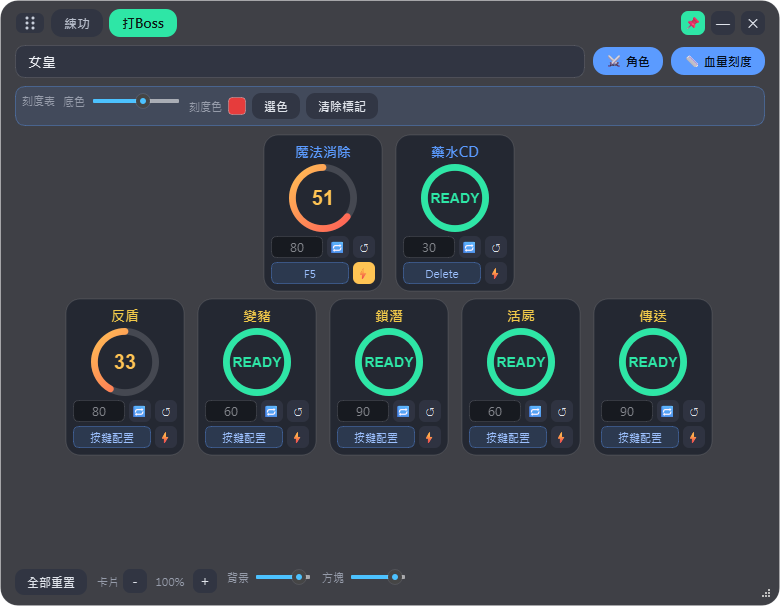
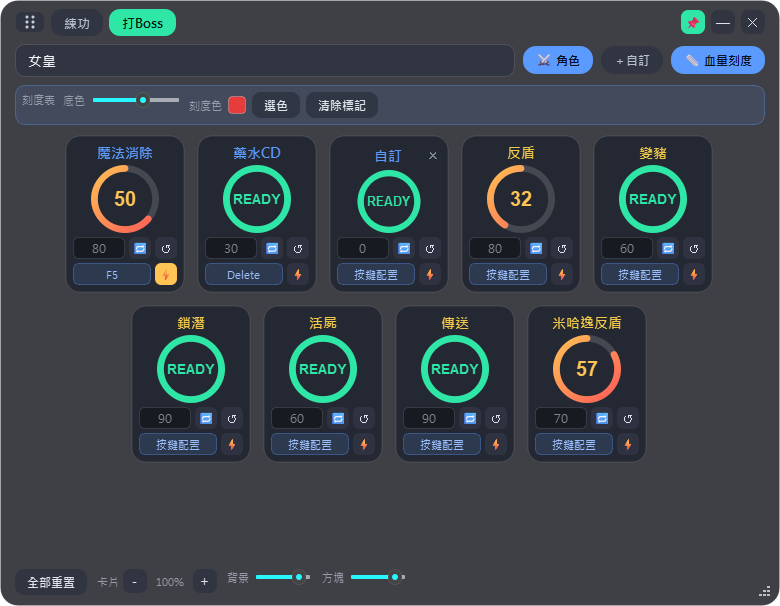
Release v1.5.0.0
新增 Boss 分類「希拉」（反頓 80 秒）；阿卡伊農新增鎖潛 90 秒；
女皇新增米哈逸反盾 70 秒。

新增「＋自訂」角色卡：可新增/刪除、直接在卡片上改名，秒數預設 0，
名稱與秒數存於 maple_star_config.json 的 custom_cards。

血量刻度表加密到每 2.5% 一格：10% 長刻度、5% 中刻度（拉高）、
2.5% 短刻度（較短較細），點擊判定隨間距縮小。

更新 README、CHANGELOG 與功能截圖。

diff --git a/maple_star_tool.py b/maple_star_tool.py
@@ -1,6 +1,6 @@
 # -*- coding: utf-8 -*-
 """
-楓星小工具 — Maplestory World 楓星 輔助小工具（PySide6）  v1.4.0.0
+楓星小工具 — Maplestory World 楓星 輔助小工具（PySide6）  v1.5.0.0
 
 主視窗工具：
   A. 技能冷卻計時器
@@ -8,8 +8,9 @@
      • 卡片縮放鈕、兩段透明度(背景/方塊)、分類頁籤、↺重置、🔁巡迴、全部重置
      • 秒數客製：留空用預設，填數字用你填的秒數
      • ⚔ 角色卡：角色技能/狀態倒數（劍士魔法消除 80 秒、藥水CD 30 秒），
-       以卡片形式插在目前分類卡片流的最前面兩格，跟 BOSS 卡一起排列/折行
+       以卡片形式插在目前分類卡片流的最前面，跟 BOSS 卡一起排列/折行
        （不再自成一列），藍色標題與 BOSS 技能區別；計時狀態跨分類共用
+     • ＋自訂：新增自訂倒數卡（名稱/秒數可改、✕ 刪除），存在設定檔
      • 按鍵配置：每張卡下方的「按鍵配置」鈕——點一下、按下想綁的實體按鍵即完成
        （Esc 取消、右鍵清除）。之後按綁定鍵就觸發倒數（全域偵測、不攔截按鍵）。
        ⚡ 開關：開＝倒數中按鍵也直接重新倒數；關（預設）＝READY 時按鍵才會開始。
@@ -20,7 +21,7 @@
 
 獨立浮動視窗：
   B. 尺規（頁籤右側「📏 尺規」開關鈕彈出，與主視窗共存、永遠置頂）
-     • 像直尺：0–100%，每10%大刻度(標數字)、每5%小刻度；刻度可標記顏色
+     • 像直尺：0–100%，每10%大刻度(標數字)、每5%中刻度、每2.5%小刻度；刻度可標記顏色
      • 極簡：左上「拖曳握把」+ 右上「✕」；透明度/顏色/清除在主視窗設定
      • 底冊透明度可調 → 拖到 Boss 血條上對齊看攻略進度
 
@@ -65,6 +66,7 @@ CATEGORIES = [
     ]},
     {"name": "阿卡伊農", "skills": [
         {"name": "尾段全圖殺", "cd": 70},
+        {"name": "鎖潛", "cd": 90},
     ]},
     {"name": "皮卡啾", "skills": [
         {"name": "反盾", "cd": 45},
@@ -75,6 +77,10 @@ CATEGORIES = [
         {"name": "鎖潛", "cd": 90},
         {"name": "活屍", "cd": 60},
         {"name": "傳送", "cd": 90},
+        {"name": "米哈逸反盾", "cd": 70},
+    ]},
+    {"name": "希拉", "skills": [
+        {"name": "反頓", "cd": 80},
     ]},
 ]
 
@@ -85,6 +91,10 @@ PLAYER_SKILLS = [
     {"name": "魔法消除", "cd": 80},
     {"name": "藥水CD", "cd": 30},
 ]
+
+#   自訂卡：玩家在「⚔ 角色」區自行新增/刪除/改名的倒數卡（存在 maple_star_config.json）
+#   第一次執行時預設給一張「自訂」卡，秒數 0（需自行填入秒數才會倒數）
+DEFAULT_CUSTOM_CARDS = [{"id": "c1", "name": "自訂", "secs": ""}]
 
 CARD_W, CARD_H = 120, 158
 CTRL_H = 22
@@ -460,8 +470,9 @@ class FlowLayout(QLayout):
 #  A. 技能卡片
 # =========================================================================
 class RingCard(QFrame):
-    def __init__(self, name, cd):
+    def __init__(self, name, cd, editable=False):
         super().__init__()
+        self.editable = editable; self.del_btn = None
         self.default_cd = float(cd); self.total = float(cd)
         self.remaining = 0.0; self.active = False; self.loop = False
         self._deadline = 0.0
@@ -469,8 +480,22 @@ class RingCard(QFrame):
         self.hotkey_id = None; self.hotkey_vk = None; self._last_hotkey = 0.0
 
         lay = QVBoxLayout(self); lay.setContentsMargins(8, 8, 8, 8); lay.setSpacing(4)
-        self.name_lbl = QLabel(name); self.name_lbl.setAlignment(Qt.AlignCenter)
-        self.name_lbl.setObjectName("skillName"); lay.addWidget(self.name_lbl)
+        if editable:
+            # 自訂卡：名稱可直接改、右上 ✕ 刪除
+            top = QHBoxLayout(); top.setSpacing(2)
+            self.name_lbl = QLineEdit(name); self.name_lbl.setAlignment(Qt.AlignCenter)
+            self.name_lbl.setObjectName("customName"); self.name_lbl.setFrame(False)
+            self.name_lbl.setMaxLength(10); self.name_lbl.setPlaceholderText("名稱")
+            self.name_lbl.setToolTip("點一下可修改名稱")
+            self.del_btn = QPushButton("✕"); self.del_btn.setObjectName("cardDel")
+            self.del_btn.setCursor(Qt.PointingHandCursor); self.del_btn.setFocusPolicy(Qt.NoFocus)
+            self.del_btn.setToolTip("刪除這張自訂卡")
+            self._del_pad = QWidget()                      # 左側等寬留白，讓名稱維持置中
+            top.addWidget(self._del_pad, 0); top.addWidget(self.name_lbl, 1); top.addWidget(self.del_btn, 0)
+            lay.addLayout(top)
+        else:
+            self.name_lbl = QLabel(name); self.name_lbl.setAlignment(Qt.AlignCenter)
+            self.name_lbl.setObjectName("skillName"); lay.addWidget(self.name_lbl)
         lay.addStretch(1)
         row = QHBoxLayout(); row.setSpacing(4)
         self.sec_input = QLineEdit(); self.sec_input.setPlaceholderText(str(int(cd)))
@@ -508,6 +533,9 @@ class RingCard(QFrame):
         self.sec_input.setFixedHeight(ch)
         self.loop_btn.setFixedSize(ch, ch); self.reset_btn.setFixedSize(ch, ch)
         self.key_btn.setFixedHeight(ch); self.force_btn.setFixedSize(ch, ch)
+        if self.del_btn is not None:
+            dh = max(14, int(16 * z)); self.del_btn.setFixedSize(dh, dh); self._del_pad.setFixedSize(dh, dh)
+            fd = QFont(); fd.setPixelSize(max(8, int(10 * z))); self.del_btn.setFont(fd)
         fn = QFont("Microsoft JhengHei"); fn.setPixelSize(max(11, int(14 * z))); fn.setBold(True)
         self.name_lbl.setFont(fn)
         fi = QFont("Microsoft JhengHei"); fi.setPixelSize(max(9, int(12 * z)))
@@ -590,14 +618,16 @@ class RingCard(QFrame):
 
     def mousePressEvent(self, e):
         if self.childAt(e.position().toPoint()) in (self.sec_input, self.loop_btn, self.reset_btn,
-                                                    self.key_btn, self.force_btn):
+                                                    self.key_btn, self.force_btn,
+                                                    self.name_lbl if self.editable else None, self.del_btn):
             return
         if e.button() == Qt.LeftButton:
             self.trigger()
 
     def mouseDoubleClickEvent(self, e):
         if self.childAt(e.position().toPoint()) in (self.sec_input, self.loop_btn, self.reset_btn,
-                                                    self.key_btn, self.force_btn):
+                                                    self.key_btn, self.force_btn,
+                                                    self.name_lbl if self.editable else None, self.del_btn):
             return
         if e.button() == Qt.LeftButton:
             self.restart()
@@ -783,7 +813,8 @@ class CounterCard(QFrame):
 #  B. 尺規（極簡浮動視窗：左上握把 + 右上✕；設定在主視窗）
 # =========================================================================
 class RulerWidget(QWidget):
-    MARGIN = 16; EDGE = 12; BASELINE = 20; MAJOR = 24; MINOR = 12
+    MARGIN = 16; EDGE = 12; BASELINE = 20; MAJOR = 24; MID = 16; MINOR = 8
+    STEPS = 40          # 0–100% 切 40 格 → 每格 2.5%
 
     def __init__(self, parent=None):
         super().__init__(parent)
@@ -799,14 +830,15 @@ class RulerWidget(QWidget):
 
     def _tick_x(self, i):
         usable = self.width() - 2 * self.MARGIN
-        return self.MARGIN + usable * i / 20
+        return self.MARGIN + usable * i / self.STEPS
 
     def _nearest_tick(self, x):
         usable = self.width() - 2 * self.MARGIN
         if usable <= 0:
             return None
-        i = round((x - self.MARGIN) / usable * 20)
-        return i if 0 <= i <= 20 and abs(x - self._tick_x(i)) <= 6 else None
+        i = round((x - self.MARGIN) / usable * self.STEPS)
+        tol = min(6, usable / self.STEPS / 2)       # 刻度變密，點擊判定範圍不可重疊
+        return i if 0 <= i <= self.STEPS and abs(x - self._tick_x(i)) <= tol else None
 
     def mousePressEvent(self, e):
         x, y = e.position().x(), e.position().y()
@@ -867,16 +899,18 @@ class RulerWidget(QWidget):
         p.setPen(QPen(QColor(255, 255, 255, 175), 3.2)); p.drawLine(M, b, self.width() - M, b)
         p.setPen(QPen(QColor(45, 45, 45), 2)); p.drawLine(M, b, self.width() - M, b)
         fnt = QFont("Arial"); fnt.setPixelSize(11); fnt.setBold(True); p.setFont(fnt)
-        for i in range(21):
-            x = self._tick_x(i); major = (i % 2 == 0)
-            ln = self.MAJOR if major else self.MINOR; mk = i in self.marked
+        for i in range(self.STEPS + 1):
+            x = self._tick_x(i); major = (i % 4 == 0); mid = (i % 2 == 0)
+            ln = self.MAJOR if major else (self.MID if mid else self.MINOR); mk = i in self.marked
             self._halo(p, x, b, b + ln)
             col = self.hi_color if mk else QColor(30, 30, 30)
-            p.setPen(QPen(col, 2.8 if mk else 1.6)); p.drawLine(QPointF(x, b), QPointF(x, b + ln))
+            w = 2.8 if mk else (1.6 if mid else 1.2)
+            p.setPen(QPen(col, w)); p.drawLine(QPointF(x, b), QPointF(x, b + ln))
             if major:
+                lbl = f"{i * 100 // self.STEPS}"
                 rect = QRectF(x - 16, b + ln + 1, 32, 14)
-                self._halo_text(p, rect, f"{i * 5}")
-                p.setPen(col if mk else QColor(35, 35, 35)); p.drawText(rect, Qt.AlignCenter, f"{i * 5}")
+                self._halo_text(p, rect, lbl)
+                p.setPen(col if mk else QColor(35, 35, 35)); p.drawText(rect, Qt.AlignCenter, lbl)
         p.setPen(QPen(QColor(120, 120, 120, 200), 2))
         for hx in (5, self.width() - 5):
             p.drawLine(QPointF(hx, b - 4), QPointF(hx, b + self.MAJOR + 6))
@@ -1184,6 +1218,11 @@ class TimerWindow(QWidget):
         self.player_btn.setChecked(bool(self.cfg.get("show_player_skills", True)))
         self.player_btn.toggled.connect(self._toggle_player)
         h.addWidget(self.player_btn, 0)
+        self.add_custom_btn = QPushButton("＋自訂"); self.add_custom_btn.setObjectName("toolTab")
+        self.add_custom_btn.setCursor(Qt.PointingHandCursor)
+        self.add_custom_btn.setToolTip("新增一張自訂倒數卡（名稱、秒數可自行修改，卡片右上 ✕ 刪除）")
+        self.add_custom_btn.clicked.connect(self._add_custom_card)
+        h.addWidget(self.add_custom_btn, 0)
         self.ruler_btn = QPushButton("📏 血量刻度"); self.ruler_btn.setObjectName("toolTab")
         self.ruler_btn.setCheckable(True); self.ruler_btn.setCursor(Qt.PointingHandCursor)
         self.ruler_btn.setToolTip("彈出 Boss 血量刻度浮窗（可拖到血條上）")
@@ -1244,6 +1283,67 @@ class TimerWindow(QWidget):
             self.card_by_id[card.hotkey_id] = card
             self._wire_card(card)
             self.cards.append(card); self.player_cards.append(card)
+        customs = self.cfg.get("custom_cards")
+        if not isinstance(customs, list):
+            customs = [dict(c) for c in DEFAULT_CUSTOM_CARDS]
+        self.custom_defs = []
+        for d in customs:
+            if isinstance(d, dict) and isinstance(d.get("id"), str):
+                ent = {"id": d["id"], "name": str(d.get("name", "")), "secs": str(d.get("secs", ""))}
+                self.custom_defs.append(ent)
+                self._make_custom_card(ent)
+        self.cfg["custom_cards"] = self.custom_defs
+
+    def _make_custom_card(self, ent):
+        """建立一張自訂卡（名稱/秒數變更即存檔）"""
+        card = RingCard(ent["name"], 0, editable=True)
+        card.sec_input.setText(ent["secs"])
+        card.hotkey_id = f"角色::自訂::{ent['id']}"
+        card._flow = None; card._custom = ent
+        self.card_by_id[card.hotkey_id] = card
+        self._wire_card(card)
+        card.name_lbl.textChanged.connect(lambda t, e=ent: self._on_custom_edit(e, "name", t))
+        card.sec_input.textChanged.connect(lambda t, e=ent: self._on_custom_edit(e, "secs", t))
+        card.del_btn.clicked.connect(lambda _=False, c=card: self._delete_custom_card(c))
+        self.cards.append(card); self.player_cards.append(card)
+        return card
+
+    def _on_custom_edit(self, ent, key, text):
+        ent[key] = text.strip() if key == "secs" else text
+        self._save_config()
+
+    def _add_custom_card(self):
+        used = {d["id"] for d in self.custom_defs}
+        n = 1
+        while f"c{n}" in used:
+            n += 1
+        ent = {"id": f"c{n}", "name": "自訂", "secs": ""}
+        self.custom_defs.append(ent)
+        card = self._make_custom_card(ent)
+        card.apply_zoom(self.zoom); card.set_block_alpha(self.block_alpha)
+        self._save_config()
+        if not self.player_btn.isChecked():
+            self.player_btn.setChecked(True)      # 會觸發 _mount_player_cards
+        else:
+            self._mount_player_cards()
+        card.name_lbl.setFocus(); card.name_lbl.selectAll()
+
+    def _delete_custom_card(self, card):
+        if self._capture_card is card:
+            self._end_capture()
+        flow = getattr(card, "_flow", None)
+        if flow is not None:
+            flow.detachWidget(card)
+        card._flow = None
+        for lst in (self.cards, self.player_cards):
+            if card in lst:
+                lst.remove(card)
+        self.card_by_id.pop(card.hotkey_id, None)
+        self.hotkeys.pop(card.hotkey_id, None)
+        if card._custom in self.custom_defs:
+            self.custom_defs.remove(card._custom)
+        card.hide(); card.deleteLater()
+        self._rebuild_vk_map(); self._save_config()
 
     def _mount_player_cards(self):
         """把角色卡插進「目前分類頁」卡片流的最前面：不再自成一列，會跟 BOSS 卡一起排、一起折行"""
@@ -1262,7 +1362,7 @@ class TimerWindow(QWidget):
             if flow is None:
                 card.hide()
             else:
-                flow.insertWidget(i, card)      # 角色卡固定佔最前面兩格
+                flow.insertWidget(i, card)      # 角色卡（含自訂卡）固定排在最前面
                 card.show()
 
     def _category_page(self, cat):
@@ -1551,6 +1651,11 @@ class TimerWindow(QWidget):
         #rulerSet {{ background: rgba(91,155,255,28); border:1px solid rgba(91,155,255,90); border-radius:10px; }}
         QLabel#skillName {{ color:rgb(241,201,74); background:transparent; }}
         QLabel#playerSkillName {{ color:#5b9bff; background:transparent; }}
+        QLineEdit#customName {{ color:#5b9bff; background:transparent; border:none; padding:0;
+                selection-background-color:rgba(91,155,255,120); }}
+        QLineEdit#customName:focus {{ background:rgba(0,0,0,90); border-radius:4px; }}
+        #cardDel {{ background:transparent; color:#7d8494; border:none; border-radius:4px; padding:0; }}
+        #cardDel:hover {{ background:#ff5757; color:white; }}
 
         #keyBtn {{ background:rgba(91,155,255,36); color:#9dc1ff; border:1px solid rgba(91,155,255,90);
                 border-radius:6px; padding:0 4px; }}

diff --git a/CHANGELOG.md b/CHANGELOG.md
@@ -4,6 +4,18 @@
 
 ---
 
+## [v1.5.0.0] - 2026-11-03
+
+### 新增
+- **新 Boss 分類「希拉」**：反頓 **80 秒**。
+- **阿卡伊農**新增鎖潛 **90 秒**；**女皇**新增米哈逸反盾 **70 秒**。
+- **＋自訂卡**：Boss 工具列新增「＋自訂」按鈕，可自行新增角色區的倒數卡。名稱可直接在卡片上修改，秒數預設 0（填入秒數後才會倒數），卡片右上 ✕ 刪除。自訂卡和內建角色卡一樣排在卡片流最前面、跨分類共用，支援按鍵配置與 ⚡；名稱、秒數存在 `maple_star_config.json` 的 `custom_cards`，重啟後保留。第一次執行預設一張「自訂」卡。內建的魔法消除、藥水CD 維持固定，不可刪除或改名。
+
+### 改善
+- **血量刻度表加密到每 2.5% 一格**：10% 長刻度（標數字）、5% 中刻度（比原本拉高）、新增 2.5% 短刻度（較短、線較細），例如 12.5%、17.5% 也能標記。刻度變密後點擊判定範圍隨刻度間距縮小，避免點到隔壁格。
+
+---
+
 ## [v1.4.0.0] - 2026-08-31
 
 ### 新增
